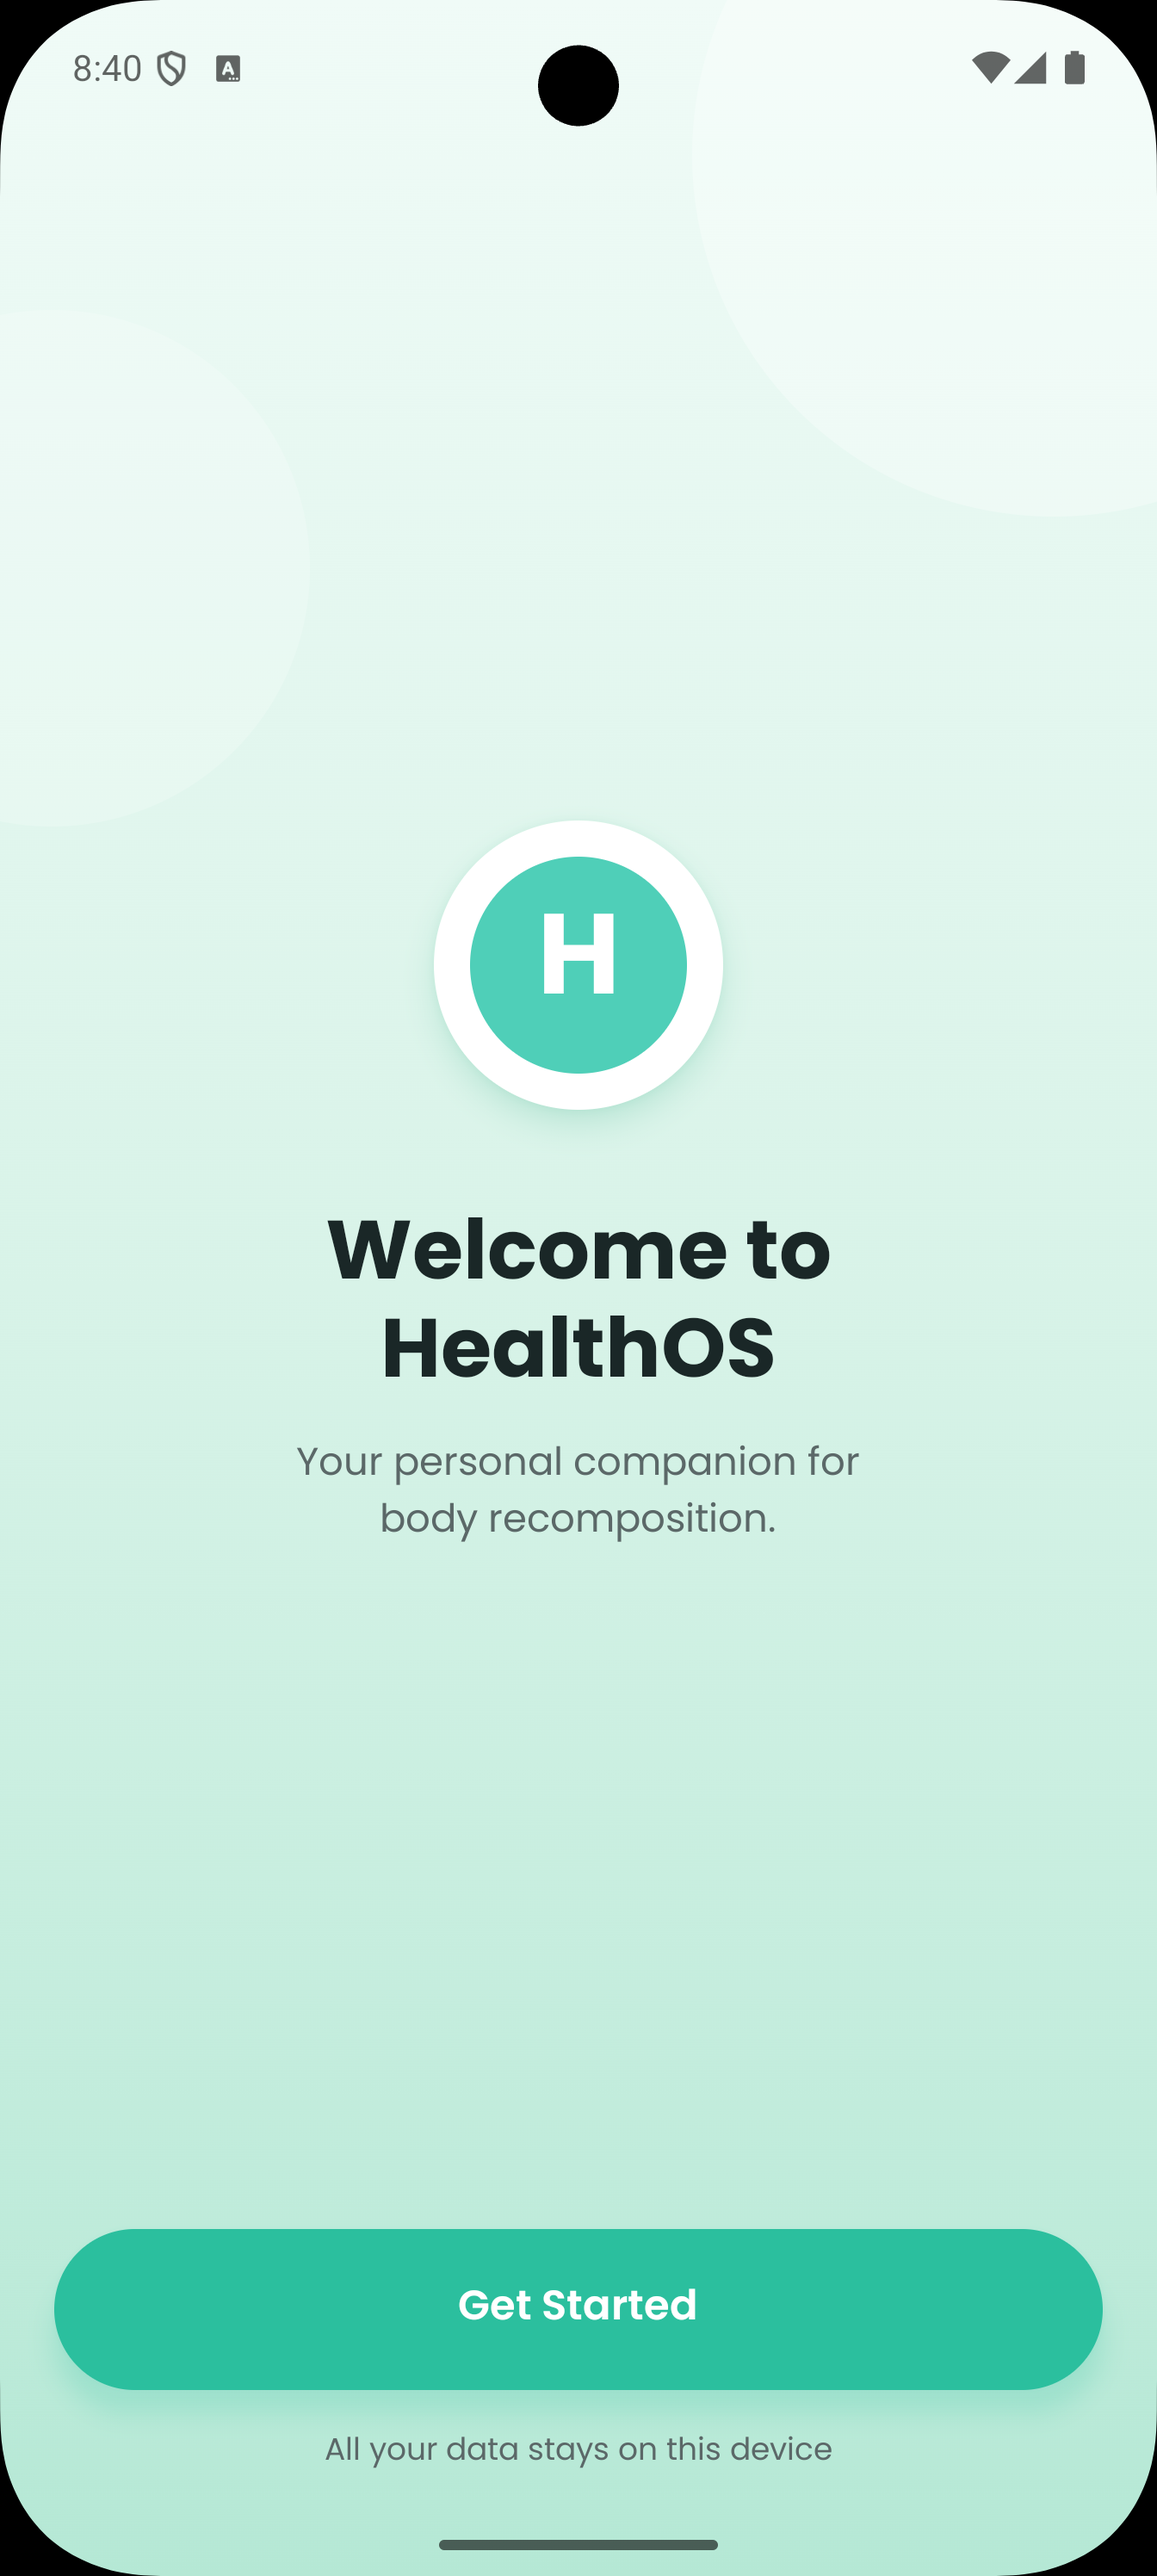
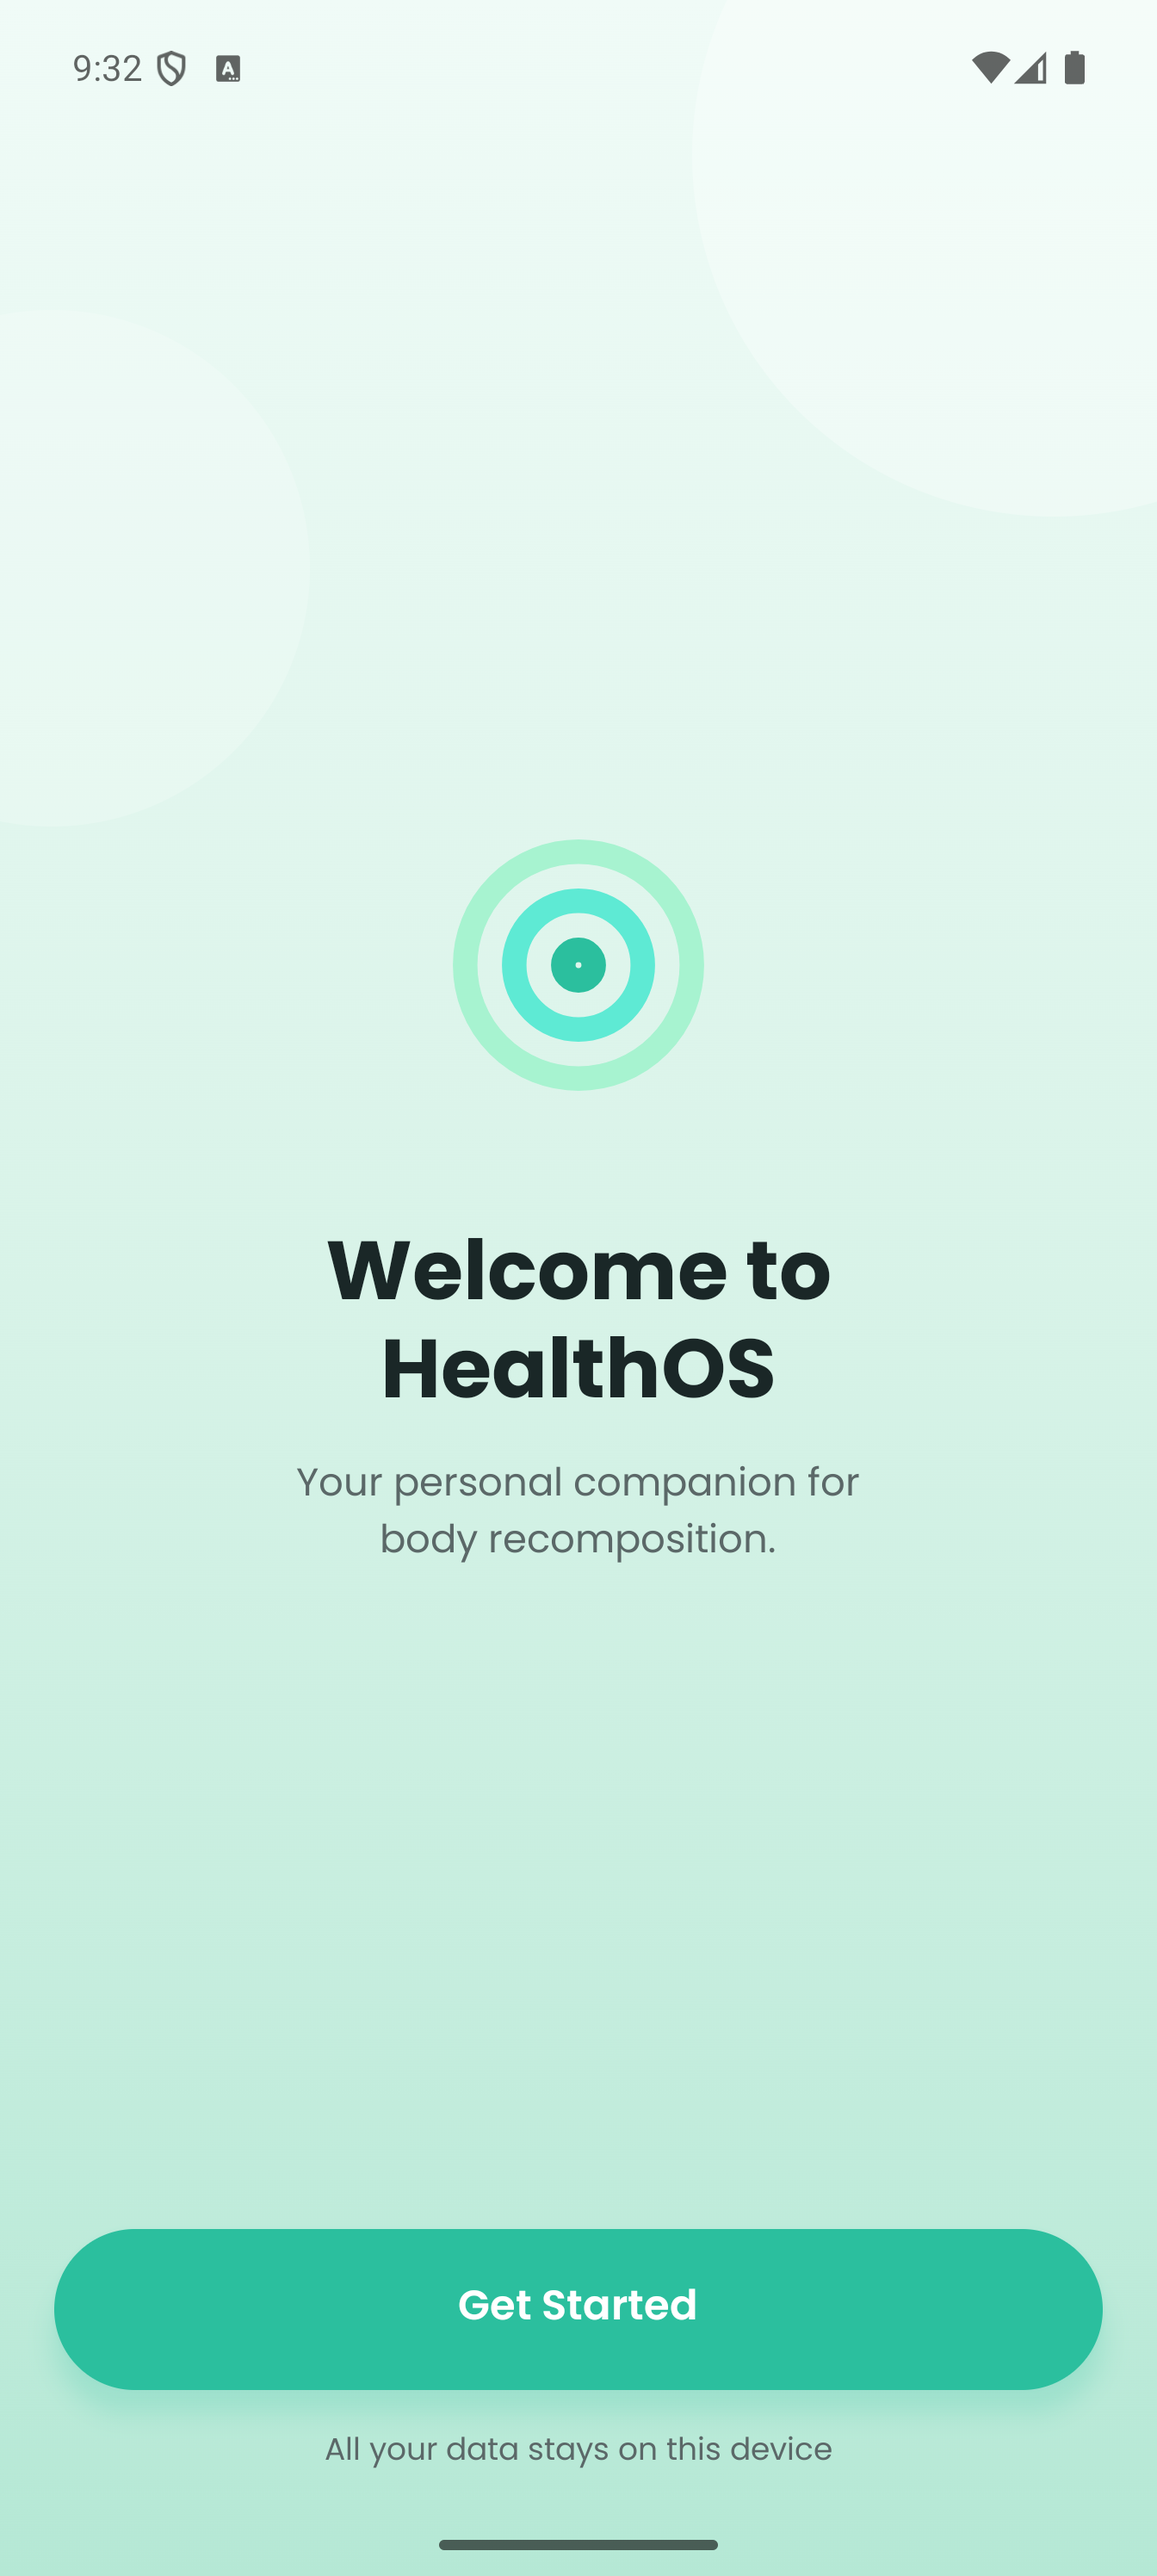
docs: refresh screenshots to cover all main features
Walked through the live app on the Pixel 9 Pro XL emulator and
captured a richer set of screens for docs/screenshots/, replacing the
older partial set:

  welcome.png            — new rings logo on the mint gradient
  onboarding-profile.png — profile form filled in, live BMR card
  onboarding-goal.png    — recomp + activity, maintenance card
  dashboard.png          — calories/protein hero, daily insight, mini stats
  food-log.png           — photo scanner card, totals, water, meal sections
  plan-generator.png     — split / days / duration / equipment modal
  workout-plan.png       — generated PPL plan with day cards + exercises
  coach.png              — Gemini-generated daily insight + weekly highlight
  body-metrics.png       — body tab with weigh-in prompt and trend section

Rebuild hero.png as a three-phone composite (workout plan / dashboard
/ coach) on the same mint gradient with soft shadows, replacing the
older welcome+onboarding+food shot. Add a "## Screens" 2x4 table to
the README so the individual feature shots get used too.

diff --git a/README.md b/README.md
@@ -5,7 +5,7 @@ A personal AI-powered health companion for body recomposition. Tracks nutrition,
 Built with React Native + Expo + TypeScript. Runs on iOS and Android (and a limited web build).
 
 <p align="center">
-  <img src="docs/screenshots/hero.png" width="820" alt="HealthOS — onboarding, welcome screen, and daily food log on Android">
+  <img src="docs/screenshots/hero.png" width="820" alt="HealthOS — daily dashboard, AI-generated workout plan, and Gemini-powered coach insight on Android">
 </p>
 
 ## What it does
@@ -15,6 +15,47 @@ Built with React Native + Expo + TypeScript. Runs on iOS and Android (and a limi
 - **Body metrics** — body fat (Navy + FFMI), BMI, BMR, TDEE, weight trend, progress photos, and tape measurements.
 - **AI coach** — daily check-ins that synthesise food, training, and body data into one short, recomp-aware nudge.
 - **Privacy** — every byte lives in SQLite on-device. The only network calls are to Gemini (for AI features), Open Food Facts (barcode lookup), and WGER (exercise library).
+
+## Screens
+
+<table>
+  <tr>
+    <td align="center" width="25%">
+      <img src="docs/screenshots/welcome.png" width="200" alt="Welcome screen with HealthOS rings logo on a mint gradient">
+      <br/><sub><b>Welcome</b><br/>Mint-themed onboarding entry</sub>
+    </td>
+    <td align="center" width="25%">
+      <img src="docs/screenshots/onboarding-profile.png" width="200" alt="Profile form with age, sex, height, weight and live BMR estimate">
+      <br/><sub><b>Profile</b><br/>Live BMR as you type</sub>
+    </td>
+    <td align="center" width="25%">
+      <img src="docs/screenshots/onboarding-goal.png" width="200" alt="Goal selection with recomposition + activity level cards">
+      <br/><sub><b>Goal</b><br/>Recomp / bulk / cut + activity</sub>
+    </td>
+    <td align="center" width="25%">
+      <img src="docs/screenshots/dashboard.png" width="200" alt="Daily dashboard with calories, macros, daily insight, and today's workout CTA">
+      <br/><sub><b>Dashboard</b><br/>One screen, four pillars</sub>
+    </td>
+  </tr>
+  <tr>
+    <td align="center" width="25%">
+      <img src="docs/screenshots/food-log.png" width="200" alt="Food tab with photo scanner card, daily totals, water, and meal sections">
+      <br/><sub><b>Food log</b><br/>Photo, barcode, or manual</sub>
+    </td>
+    <td align="center" width="25%">
+      <img src="docs/screenshots/plan-generator.png" width="200" alt="Plan generator with split, days per week, duration, and equipment options">
+      <br/><sub><b>Plan generator</b><br/>Split · days · equipment</sub>
+    </td>
+    <td align="center" width="25%">
+      <img src="docs/screenshots/workout-plan.png" width="200" alt="Generated PPL workout plan with week strip and day cards listing exercises">
+      <br/><sub><b>Workout plan</b><br/>AI-generated, periodised</sub>
+    </td>
+    <td align="center" width="25%">
+      <img src="docs/screenshots/coach.png" width="200" alt="AI coach screen with Gemini-generated insight and weekly highlight">
+      <br/><sub><b>AI coach</b><br/>Daily Gemini insight</sub>
+    </td>
+  </tr>
+</table>
 
 ## Why this exists (and why it might not be for you)
 
